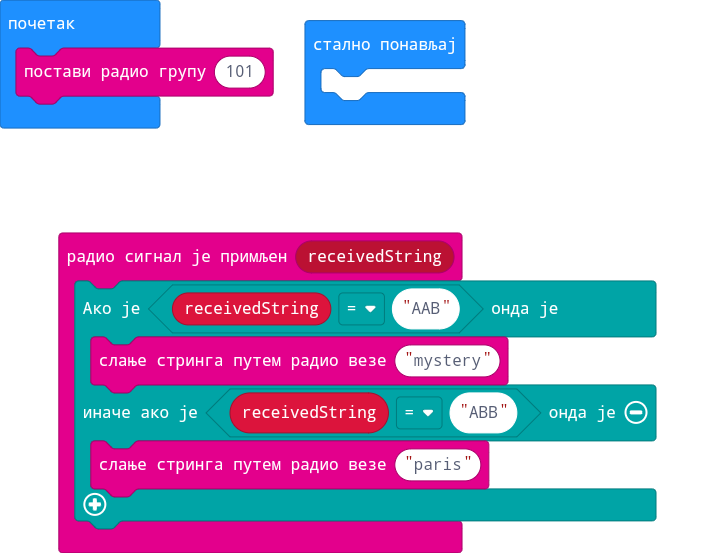
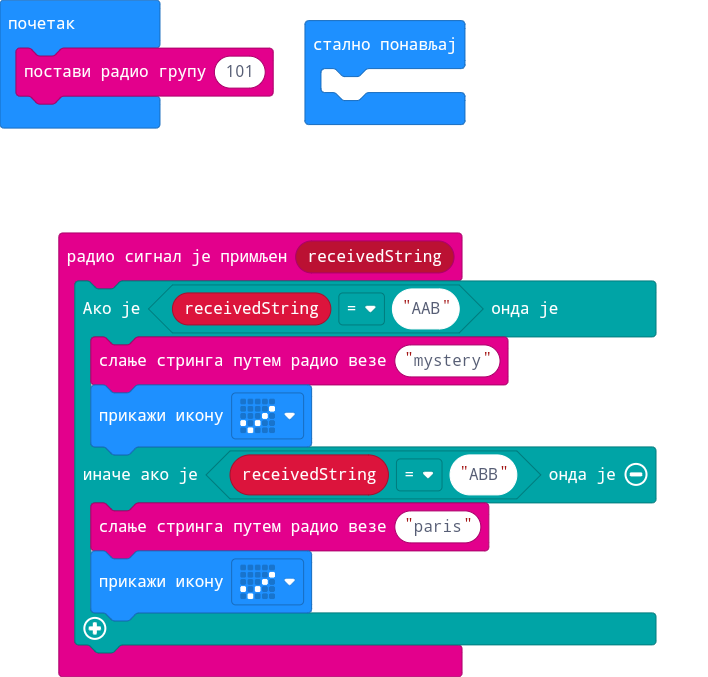
Ажурирање pxt.json, main.blocks, main.ts

diff --git a/main.ts b/main.ts
@@ -1,8 +1,10 @@
 radio.onReceivedString(function (receivedString) {
     if (receivedString == "AAB") {
         radio.sendString("mystery")
+        basic.showIcon(IconNames.Yes)
     } else if (receivedString == "ABB") {
         radio.sendString("paris")
+        basic.showIcon(IconNames.Yes)
     }
 })
 radio.setGroup(101)
